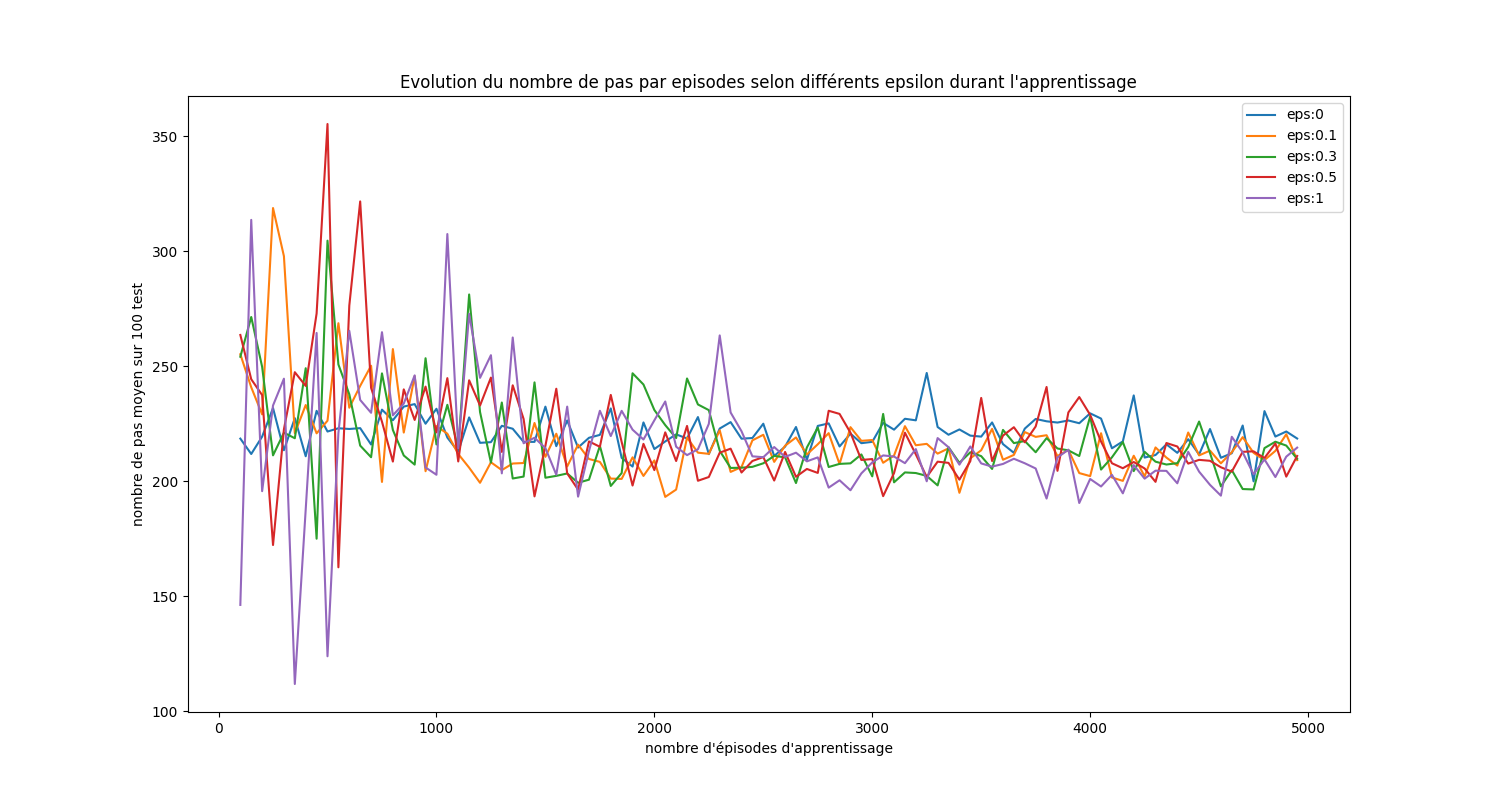
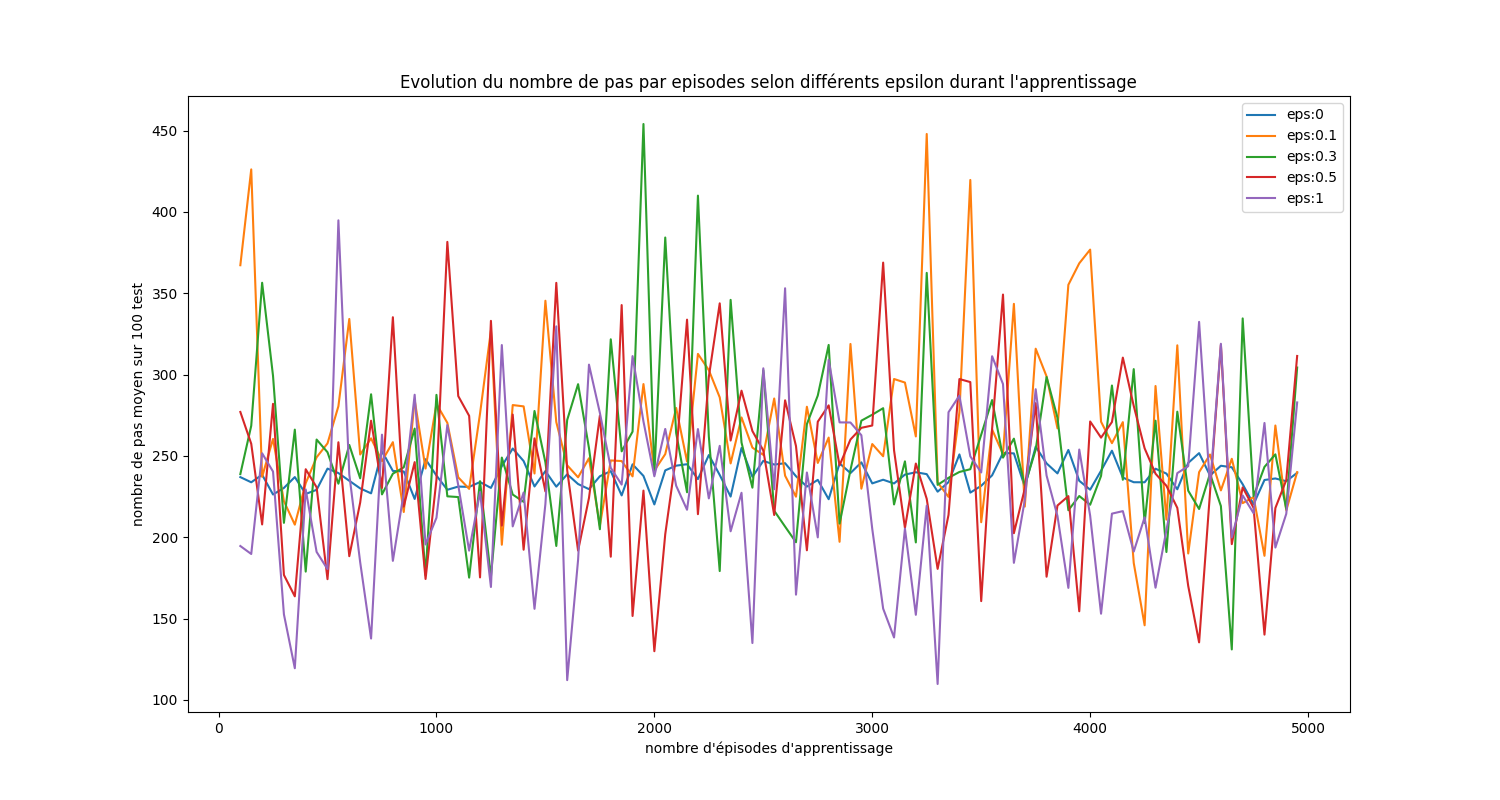
ajout direction à action

diff --git a/src/env.py b/src/env.py
@@ -1,14 +1,14 @@
 
 import numpy as np
 
-from MPRengine import Board
+from MPRengine import Board, Point
 from math import prod
-
+import math
 import matplotlib.pyplot as plt
 #Mad Pod Racing Environnement
 class MPR_env():
 
-    def __init__(self, discretisation = [5,4,3] , nb_action=3,nb_cp = 4,nb_round = 3,custom=False):
+    def __init__(self, discretisation = [5,4,3] , nb_action=9,nb_cp = 4,nb_round = 3,custom=False):
         self.board = Board(nb_cp,nb_round,custom)
         self.terminated = False
         height, width = self.board.getInfos()
@@ -32,11 +32,12 @@ class MPR_env():
         self.traj = []
         self.vitesse =[]
 
+    
         
     def step(self,  action):
         next_cp = self.board.checkpoints[self.board.next_checkpoint]
-        thrust = self.convert_action(action)
-        x,y,next_cp_x,next_cp_y,dist,angle = self.board.play(next_cp,thrust)
+        target_x, target_y, thrust = self.convert_action(action,*next_cp.getCoord())
+        x,y,next_cp_x,next_cp_y,dist,angle = self.board.play(Point(target_x,target_y),thrust)
         self.traj.append([x,y])
         # self.vitesse.append(self.discretized_speed(x,y))
         self.vitesse.append(self.discretized_speed(x,y))
@@ -150,11 +151,27 @@ class MPR_env():
 
         return index
 
-    def convert_action(self, action):
+    def convert_action(self, action,x_target, y_target):
         # mapping = {0:0,1:30,2:50,3:80,4:100}
-        mapping = {0:0,1:50,2:100}
-        return mapping[action]
+        thrust = action //3
+        angle_action = action % 3
+        mapping_thrust = {0:0,1:50,2:100}
+        current_x, current_y = self.board.pod.getCoord()
+        angle = math.degrees(math.atan2(y_target - current_y, x_target - current_x))
+        if angle_action == 0:  
+            new_angle = angle - 18
+        elif angle_action == 1: 
+            new_angle = angle
+        elif angle_action == 2: 
+            new_angle = angle + 18
+    
+        new_angle_rad = math.radians(new_angle)
+    
+        new_x = current_x + math.cos(new_angle_rad)
+        new_y = current_y + math.sin(new_angle_rad)
+        return new_x, new_y,mapping_thrust[thrust]
 
+    
 
     def show_traj(self):
 
@@ -169,6 +186,8 @@ class MPR_env():
         plt.scatter(b_x,b_y, c = 'red', s=600)
 
         plt.show()
+
+    
 
     def plot_vitesse(self):
         plt.figure()

diff --git a/src/qagent.py b/src/qagent.py
@@ -38,7 +38,7 @@ class Qagent:
 
                 if terminated:
                     break
-            self.epsilon*= 0.995
+            # self.epsilon*= 0.995
 
             if self.do_test and i%50 ==0:
                 mean_steps, mean_reward = self.test()
@@ -70,6 +70,19 @@ class Qagent:
             steps_per_test.append(pas)
             reward_per_test.append(cum_reward)
         return np.mean(steps_per_test), np.mean(reward_per_test)
+
+    def one_run(self):
+        
+        state = self.env.reset()
+        for j in range(self.max_steps):
+            action = np.argmax(self.qtable[state])
+            next_state,reward,terminated = self.env.step(action)
+            state = next_state
+            if terminated:
+                break
+
+        self.env.show_traj()
+
 
 
 
@@ -105,3 +118,12 @@ class Qagent:
                 f.write(f"    {repr(row)},\n")
             f.write("]\n")
 
+
+def main():
+    agent = Qagent(MPR_env(), do_test=False, episodes= 1000, max_steps=100)
+    agent.train()
+    agent.one_run()
+    agent.env.show_traj()
+    agent.env.plot_vitesse()
+    
+# main()
